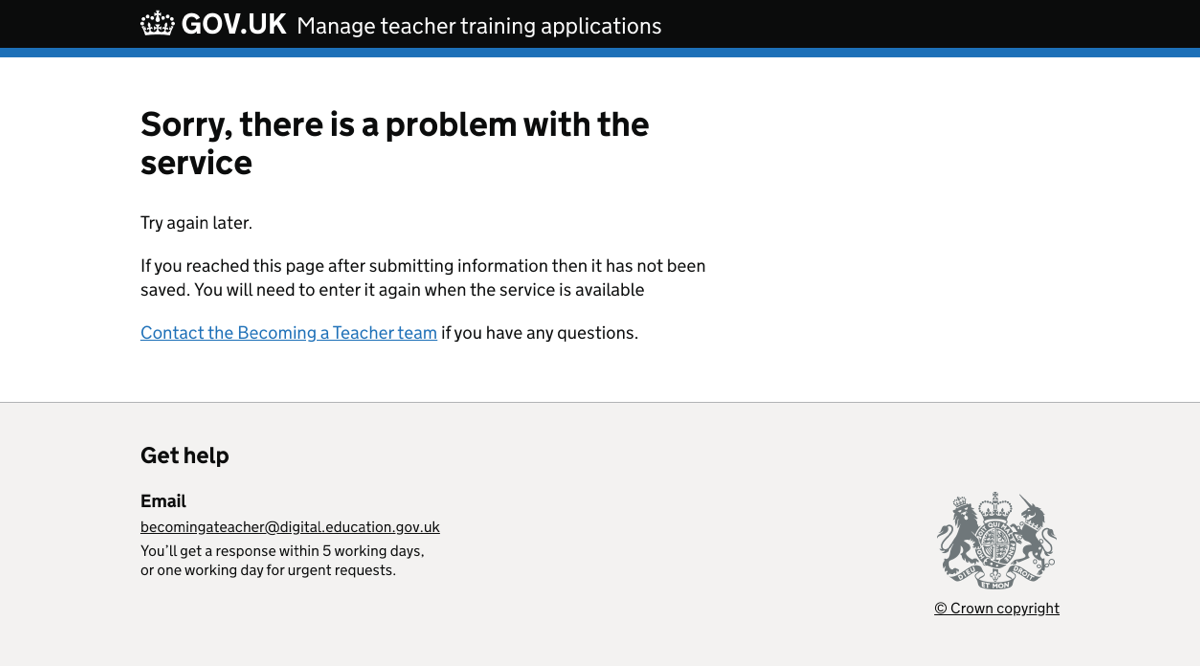
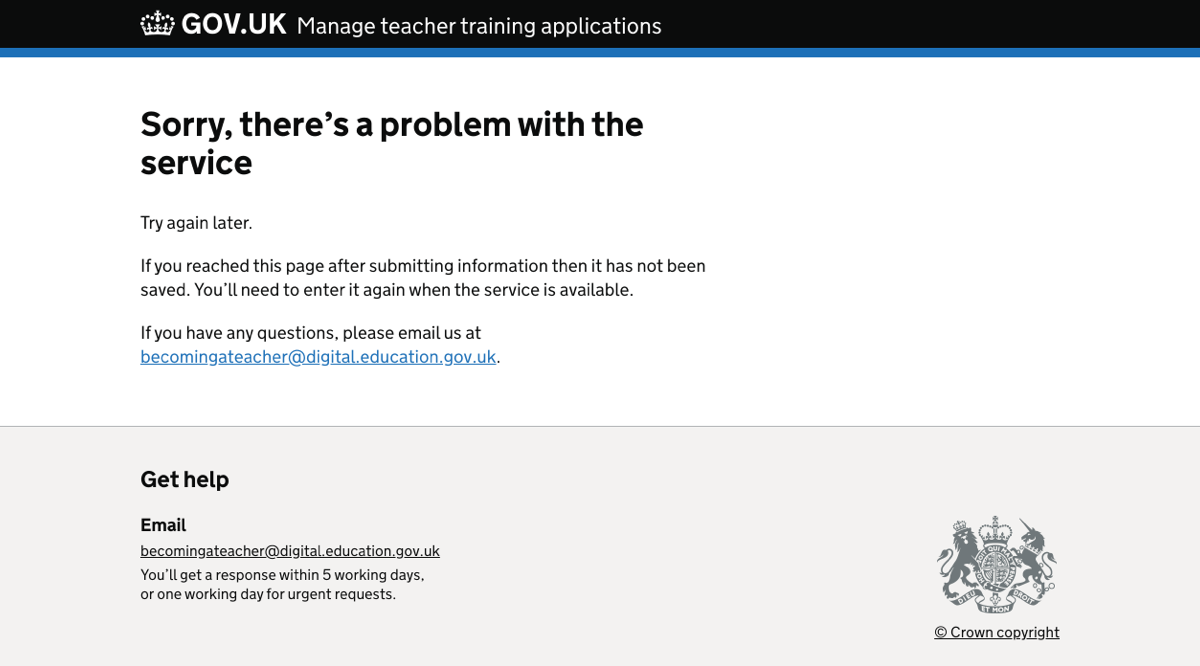
Update content following review

diff --git a/app/posts/manage-teacher-training-applications/2021-10-06-updating-the-service-unavailable-pages.md b/app/posts/manage-teacher-training-applications/2021-10-06-updating-the-service-unavailable-pages.md
@@ -1,6 +1,6 @@
 ---
 title: Updating the service unavailable pages
-description: Improving how we show the service is unavailable or that there is a problem
+description: Improving how we show the service is offline for planned maintenance or that there’s a problem
 date: 2021-10-06
 screenshots:
   items:
@@ -9,3 +9,42 @@ screenshots:
     - text: Service unavailable page
       src: service-unavailable-page.png
 ---
+
+We currently show users an unhelpful error message when the service is unavailable.
+
+## What we did
+
+We updated the service unavailable pages used when:
+
+- there’s a problem with the service - this is known as a 500 page or internal server error page
+- the service is offline for planned maintenance - this is known as a 503 page or a shutter page
+
+## How it works
+
+The pages do not include any elements which require the service to be available. This means that they do not include:
+
+- account navigation
+- feedback banner
+- primary navigation
+- chat widget
+- footer navigation links
+
+### There’s a problem with the service
+
+This page includes:
+
+- the page title ‘Sorry, there’s a problem with the service – Manage teacher training applications – GOV&#46;UK’
+- the heading ‘Sorry, there’s a problem with the service’
+- content telling the user to ‘Try again later.’
+- contact information
+
+### The service is offline for planned maintenance
+
+This page includes:
+
+- the page title ‘Sorry, the service is unavailable – Manage teacher training applications – GOV&#46;UK’
+- the heading ‘Sorry, the service is unavailable’
+- content telling the user ‘You’ll be able to use the service later.’
+- contact information
+
+If the service is unavailable for a known period of time, we add a message to say when the service will be available.
